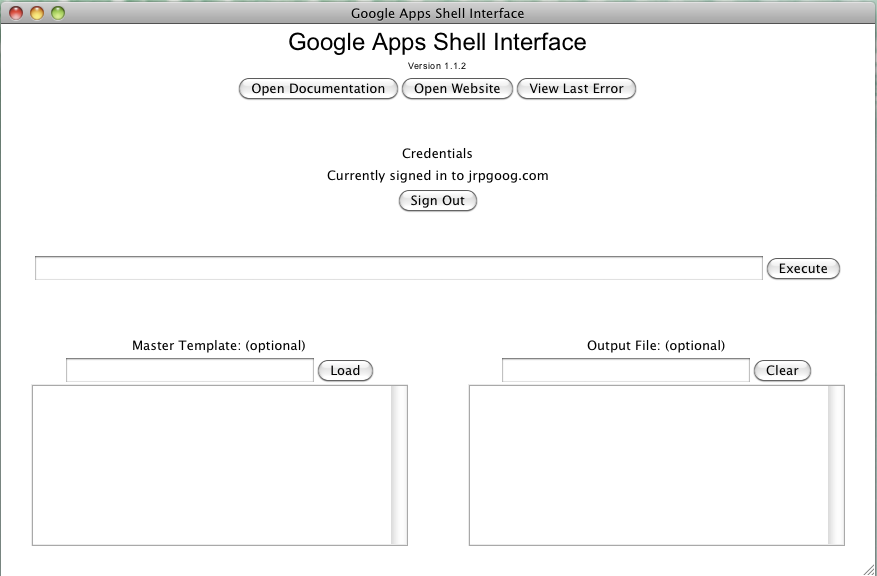
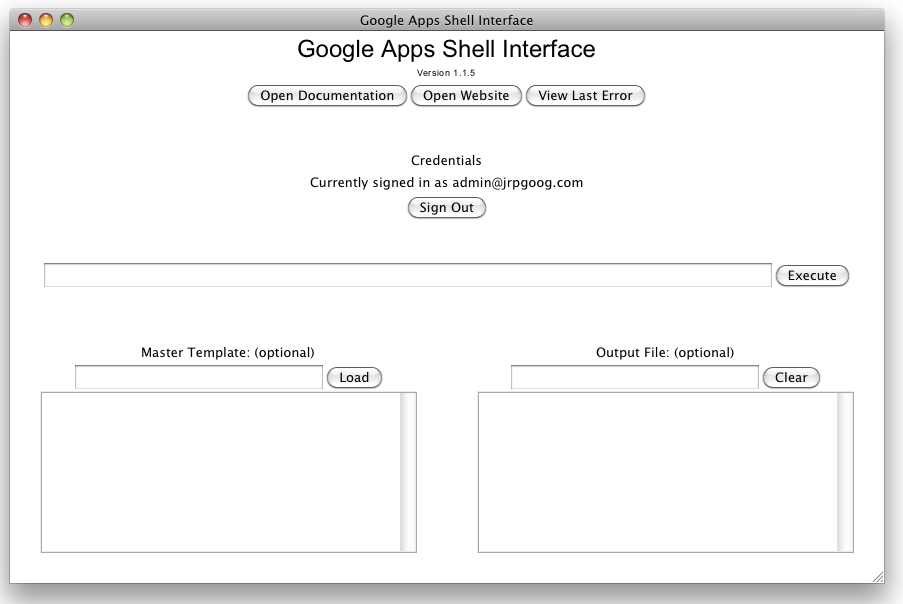
Fixed a bug relating to delete_user, and updated screen shots.

Changed region(s): [[0.0, 0.0, 1.0, 1.0], [0.3387, 0.25, 0.6465, 0.375]]

diff --git a/gas.py b/gas.py
@@ -21,7 +21,7 @@
 """Google Apps Shell is a script allowing Google Apps administrators to issue simple commands to their Apps domain."""
 
 __author__ = 'jeffpickhardt@google.com (Jeff Pickhardt)'
-__version__ = '1.1.5'
+__version__ = '1.1.6'
 __license__ = 'Apache License 2.0 (http://www.apache.org/licenses/LICENSE-2.0)'
 
 import sys, os, time, datetime, random, cgi, socket, urllib, csv
@@ -395,7 +395,7 @@ def rename_user(credential, user_name, new_user_name):
     """Renames the user with username user_name with new_user_name. This function is explicitly included since renaming user is such a popular feature."""
     update_user(credential, user_name, new_user_name)
 
-def delete_user(credential, user_name, no_rename=False):
+def delete_user(credential, user_name, no_rename='false'):
     """Deletes the user with username user_name. The username is first renamed to include the current timestamp; this is so that a new user with the same username can be recreated immediately. If no_rename is set, this part is skipped."""
     old_domain=''
     if user_name.find('@') > 0:
@@ -403,7 +403,8 @@ def delete_user(credential, user_name, no_rename=False):
         credential.service.domain = user_name[user_name.find('@')+1:]
         user_name = user_name[:user_name.find('@')]
     
-    if no_rename.lower()=='true':
+    no_rename=str_to_bool(no_rename)
+    if no_rename:
         log('Deleting %s' % user_name)
         credential.service.DeleteUser(user_name)
     else:

diff --git a/gasi.py b/gasi.py
@@ -17,7 +17,7 @@
 """Google Apps Shell Interface is a graphical user interface designed to simplify use of the Google Apps related APIs."""
 
 __author__ = 'jeffpickhardt@google.com (Jeff Pickhardt)'
-__version__ = '1.1.5'
+__version__ = '1.1.6'
 __license__ = 'Apache License 2.0 (http://www.apache.org/licenses/LICENSE-2.0)'
 
 import sys

diff --git a/gas_commands.py b/gas_commands.py
@@ -2,7 +2,7 @@
 #
 # Documentation for the GAS commands.
 
-__version__ = '1.1.5'
+__version__ = '1.1.6'
 
 commands = {
 
